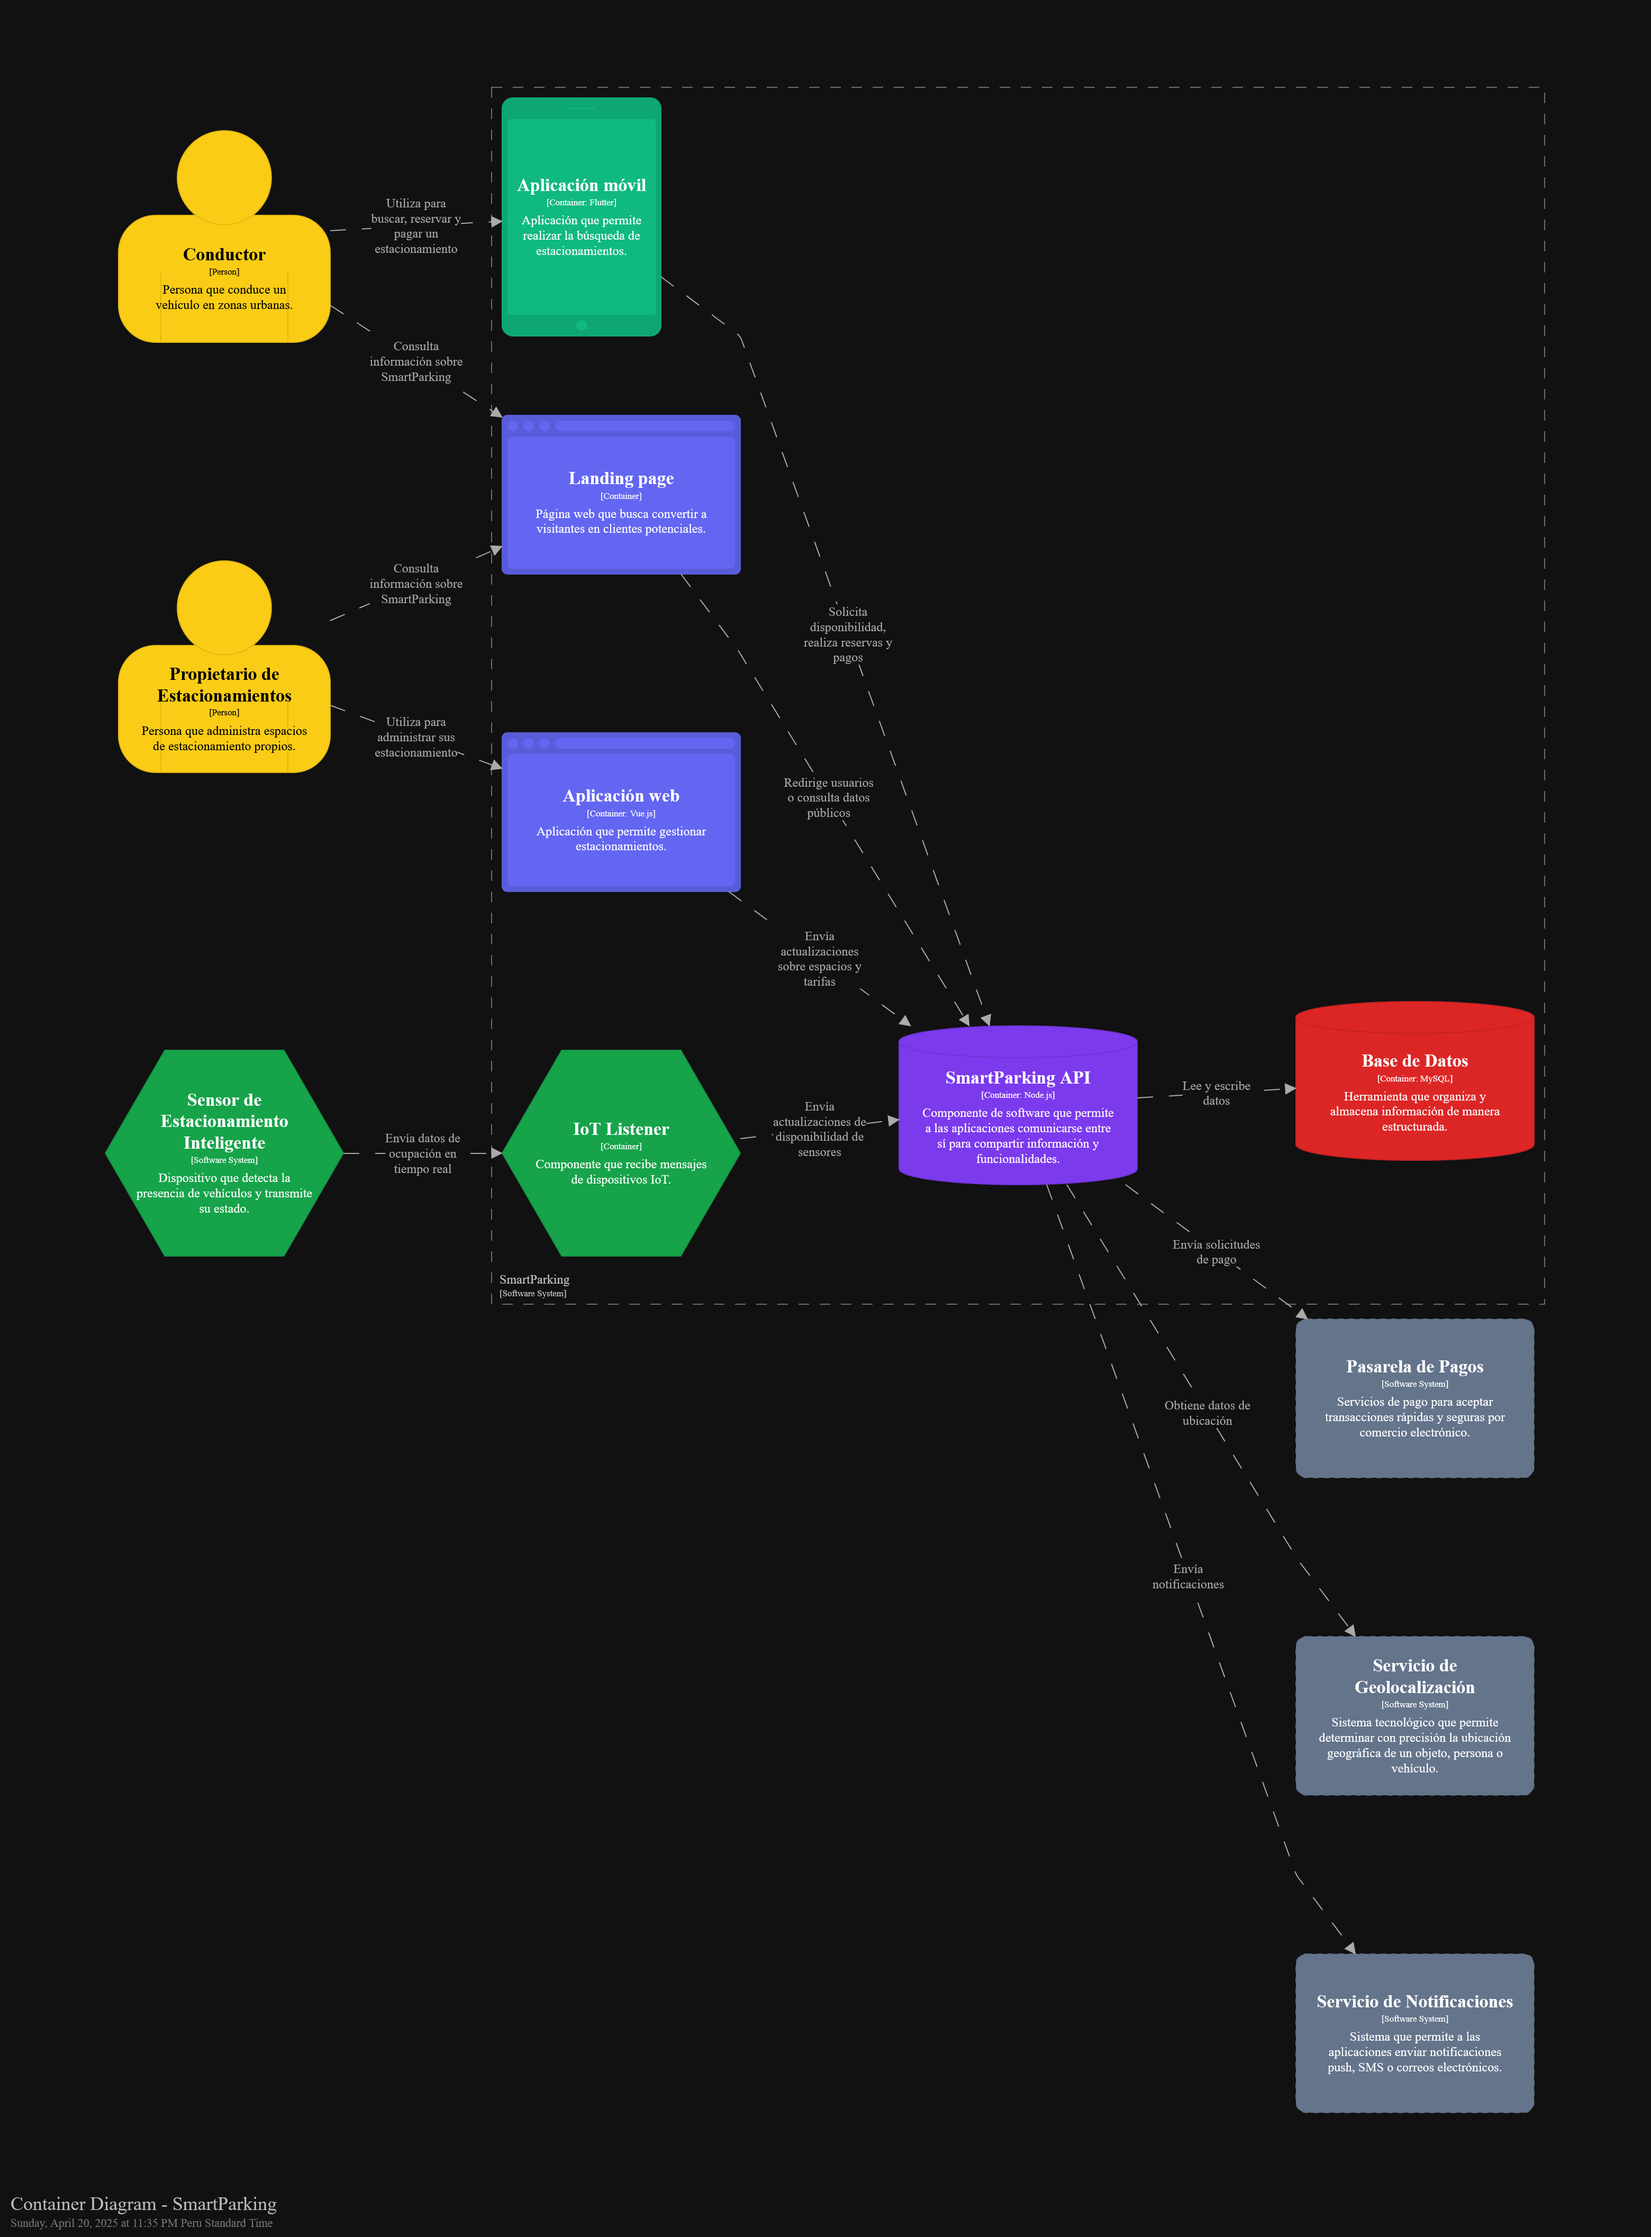
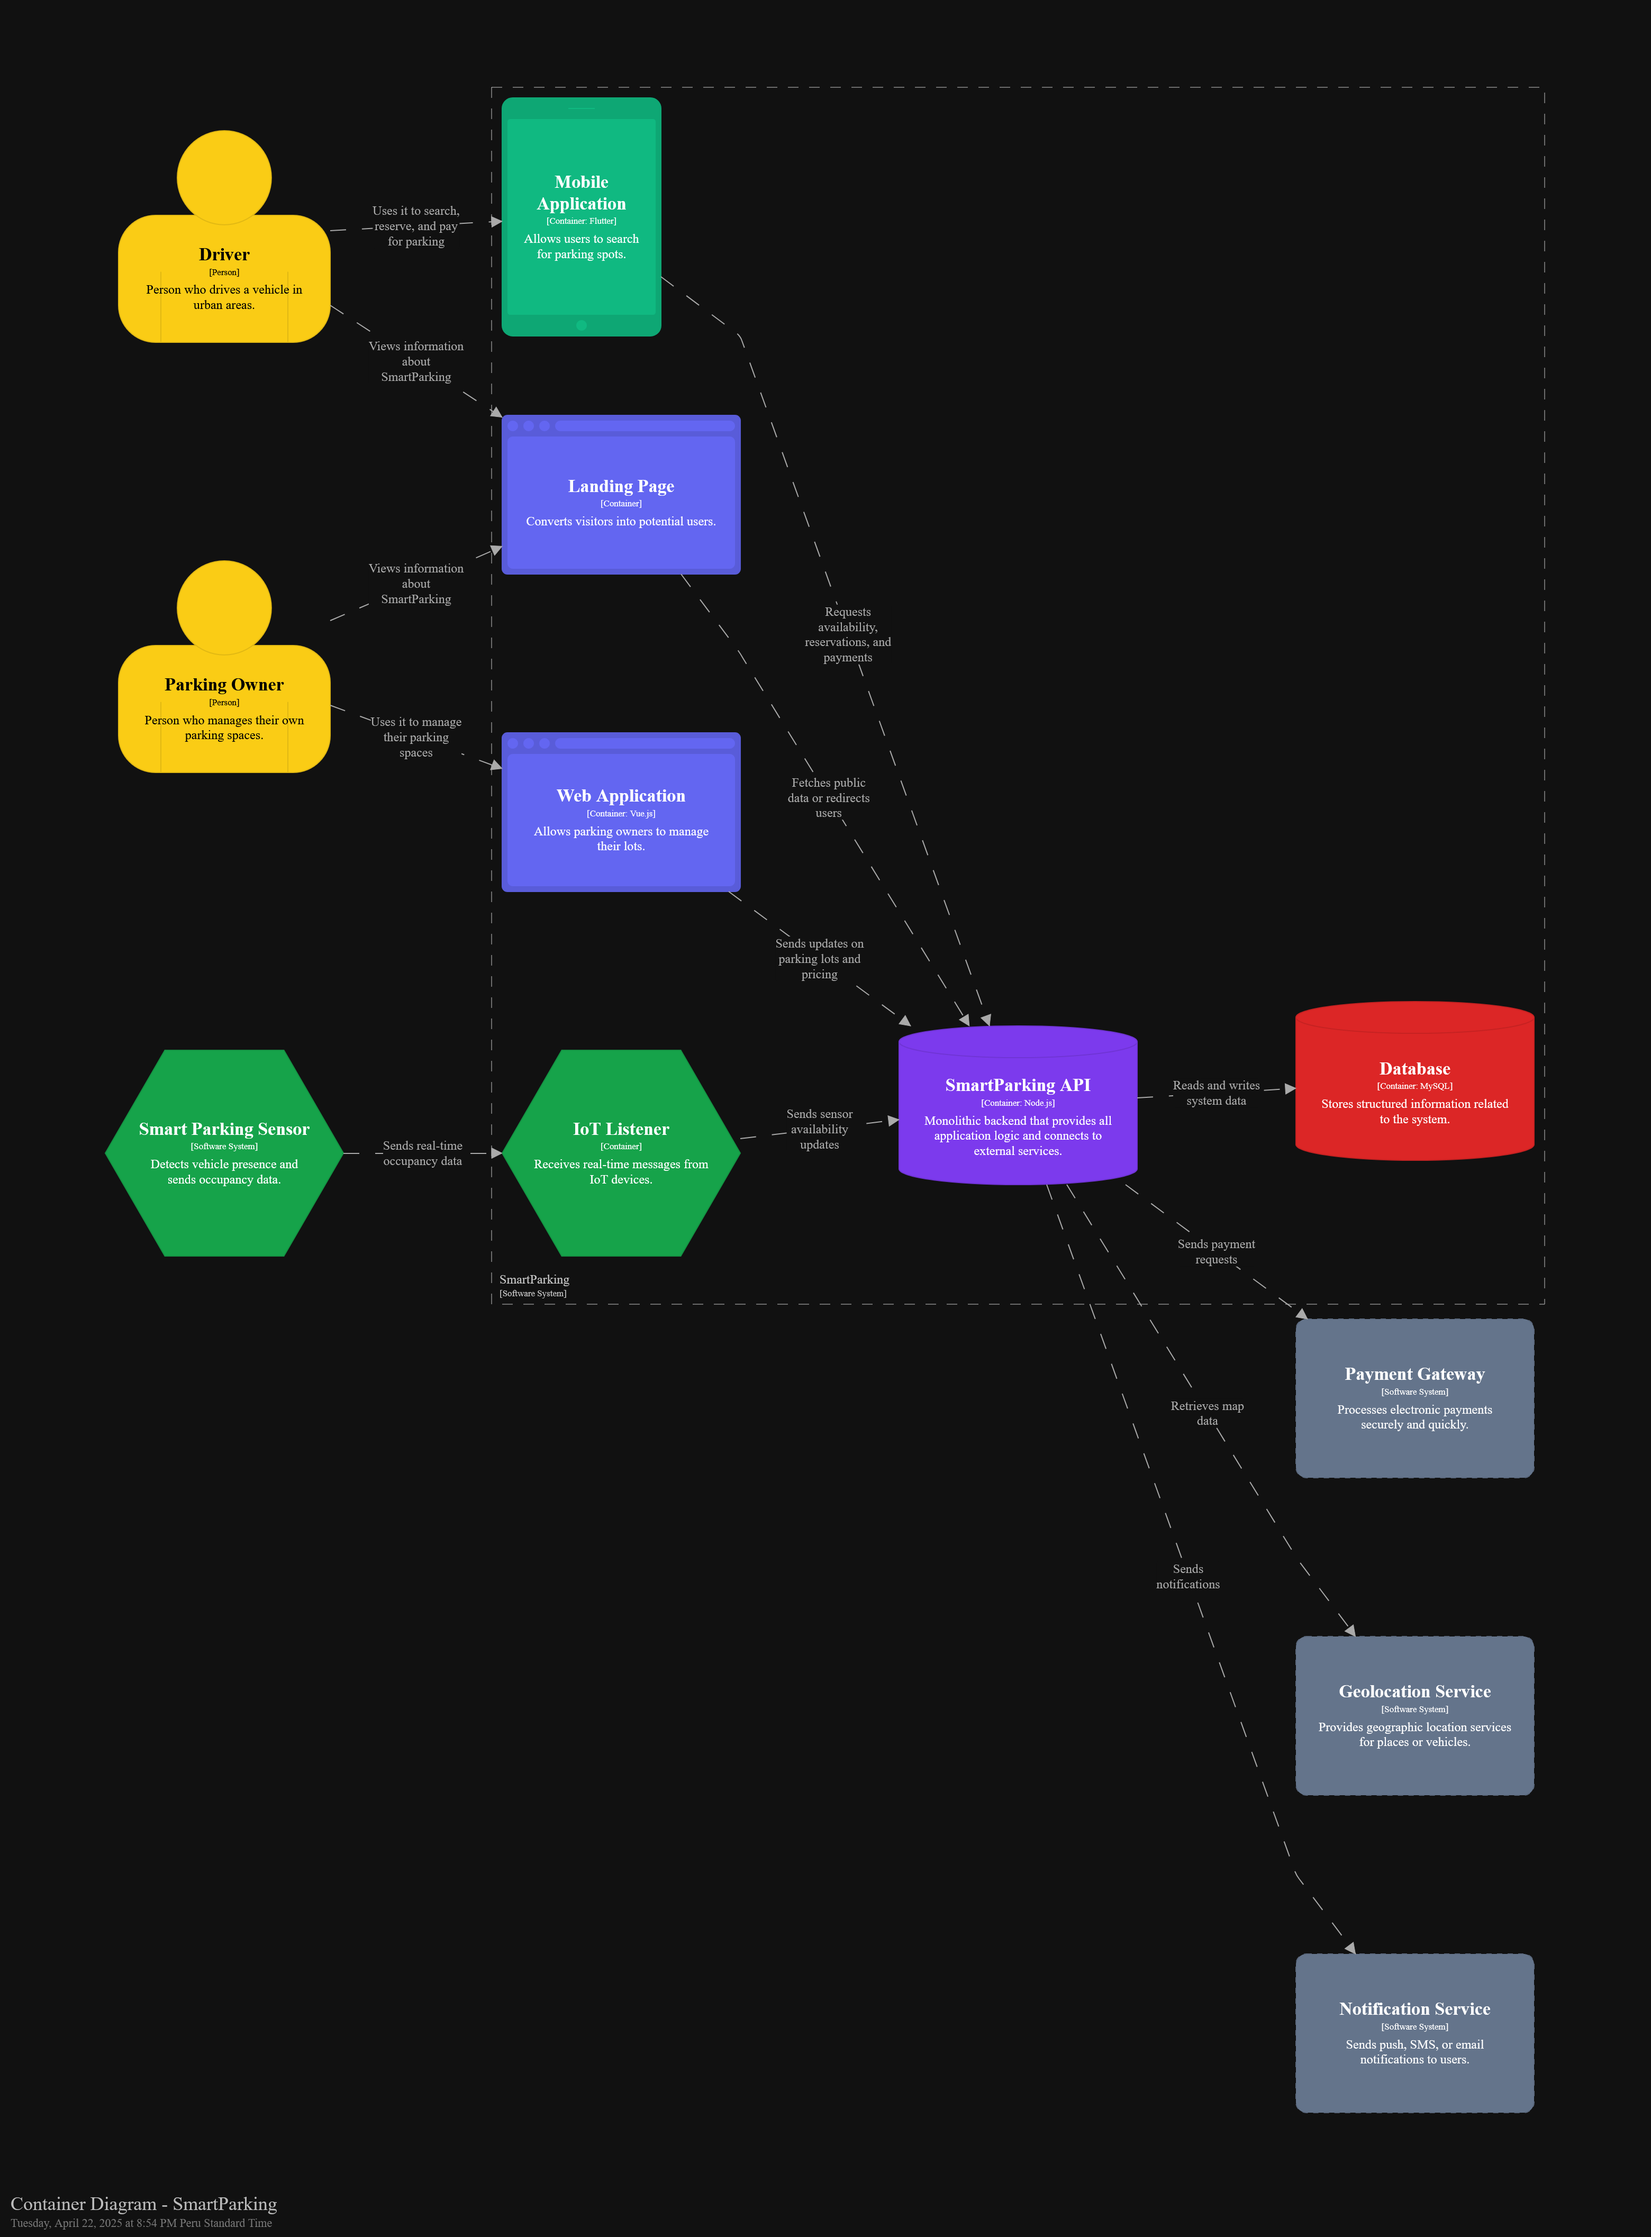
Docs: Fix the language of the Software Architecture diagrams.

diff --git a/README.md b/README.md
@@ -1567,7 +1567,8 @@ Neque porro quisquam est qui dolorem ipsum quia dolor sit amet, consectetur, adi
 
 #### 4.1.3. Software Architecture
 ##### 4.1.3.1. Software Architecture System Landscape Diagram
-Neque porro quisquam est qui dolorem ipsum quia dolor sit amet, consectetur, adipisci velit.
+Se describe el diagrama de paisaje del sistema SmartParking, que ilustra la arquitectura general y los componentes principales del sistema, incluyendo las interacciones entre ellos.
+!["System Landscape Diagram"](ChapterIV-images/SystemLandscapeDiagram.png)
 
 ##### 4.1.3.2. Software Architecture Context Level Diagrams
 Se describe el diagrama de contexto del sistema SmartParking, que define los límites del sistema y cómo interactúa con los segmentos objetivo y servicios externos.
@@ -1580,7 +1581,9 @@ Se presenta el diagrama de contenedores del sistema SmartParking, que detalla lo
 !["Container Diagram"](ChapterIV-images/ContainerDiagram.png)
 
 ##### 4.1.3.4. Software Architecture Deployment Diagrams
-Neque porro quisquam est qui dolorem ipsum quia dolor sit amet, consectetur, adipisci velit.
+Se presenta el diagrama de despliegue del sistema SmartParking, que demuestra cómo se distribuyen los componentes del sistema en la infraestructura física y virtual.
+
+!["Deployment Diagram"](ChapterIV-images/DeploymentDiagram.png)
 
 ### 4.2. Tactical-Level Domain-Driven Design
 #### 4.2.1. Bounded Context: <Bounded Context Name>
